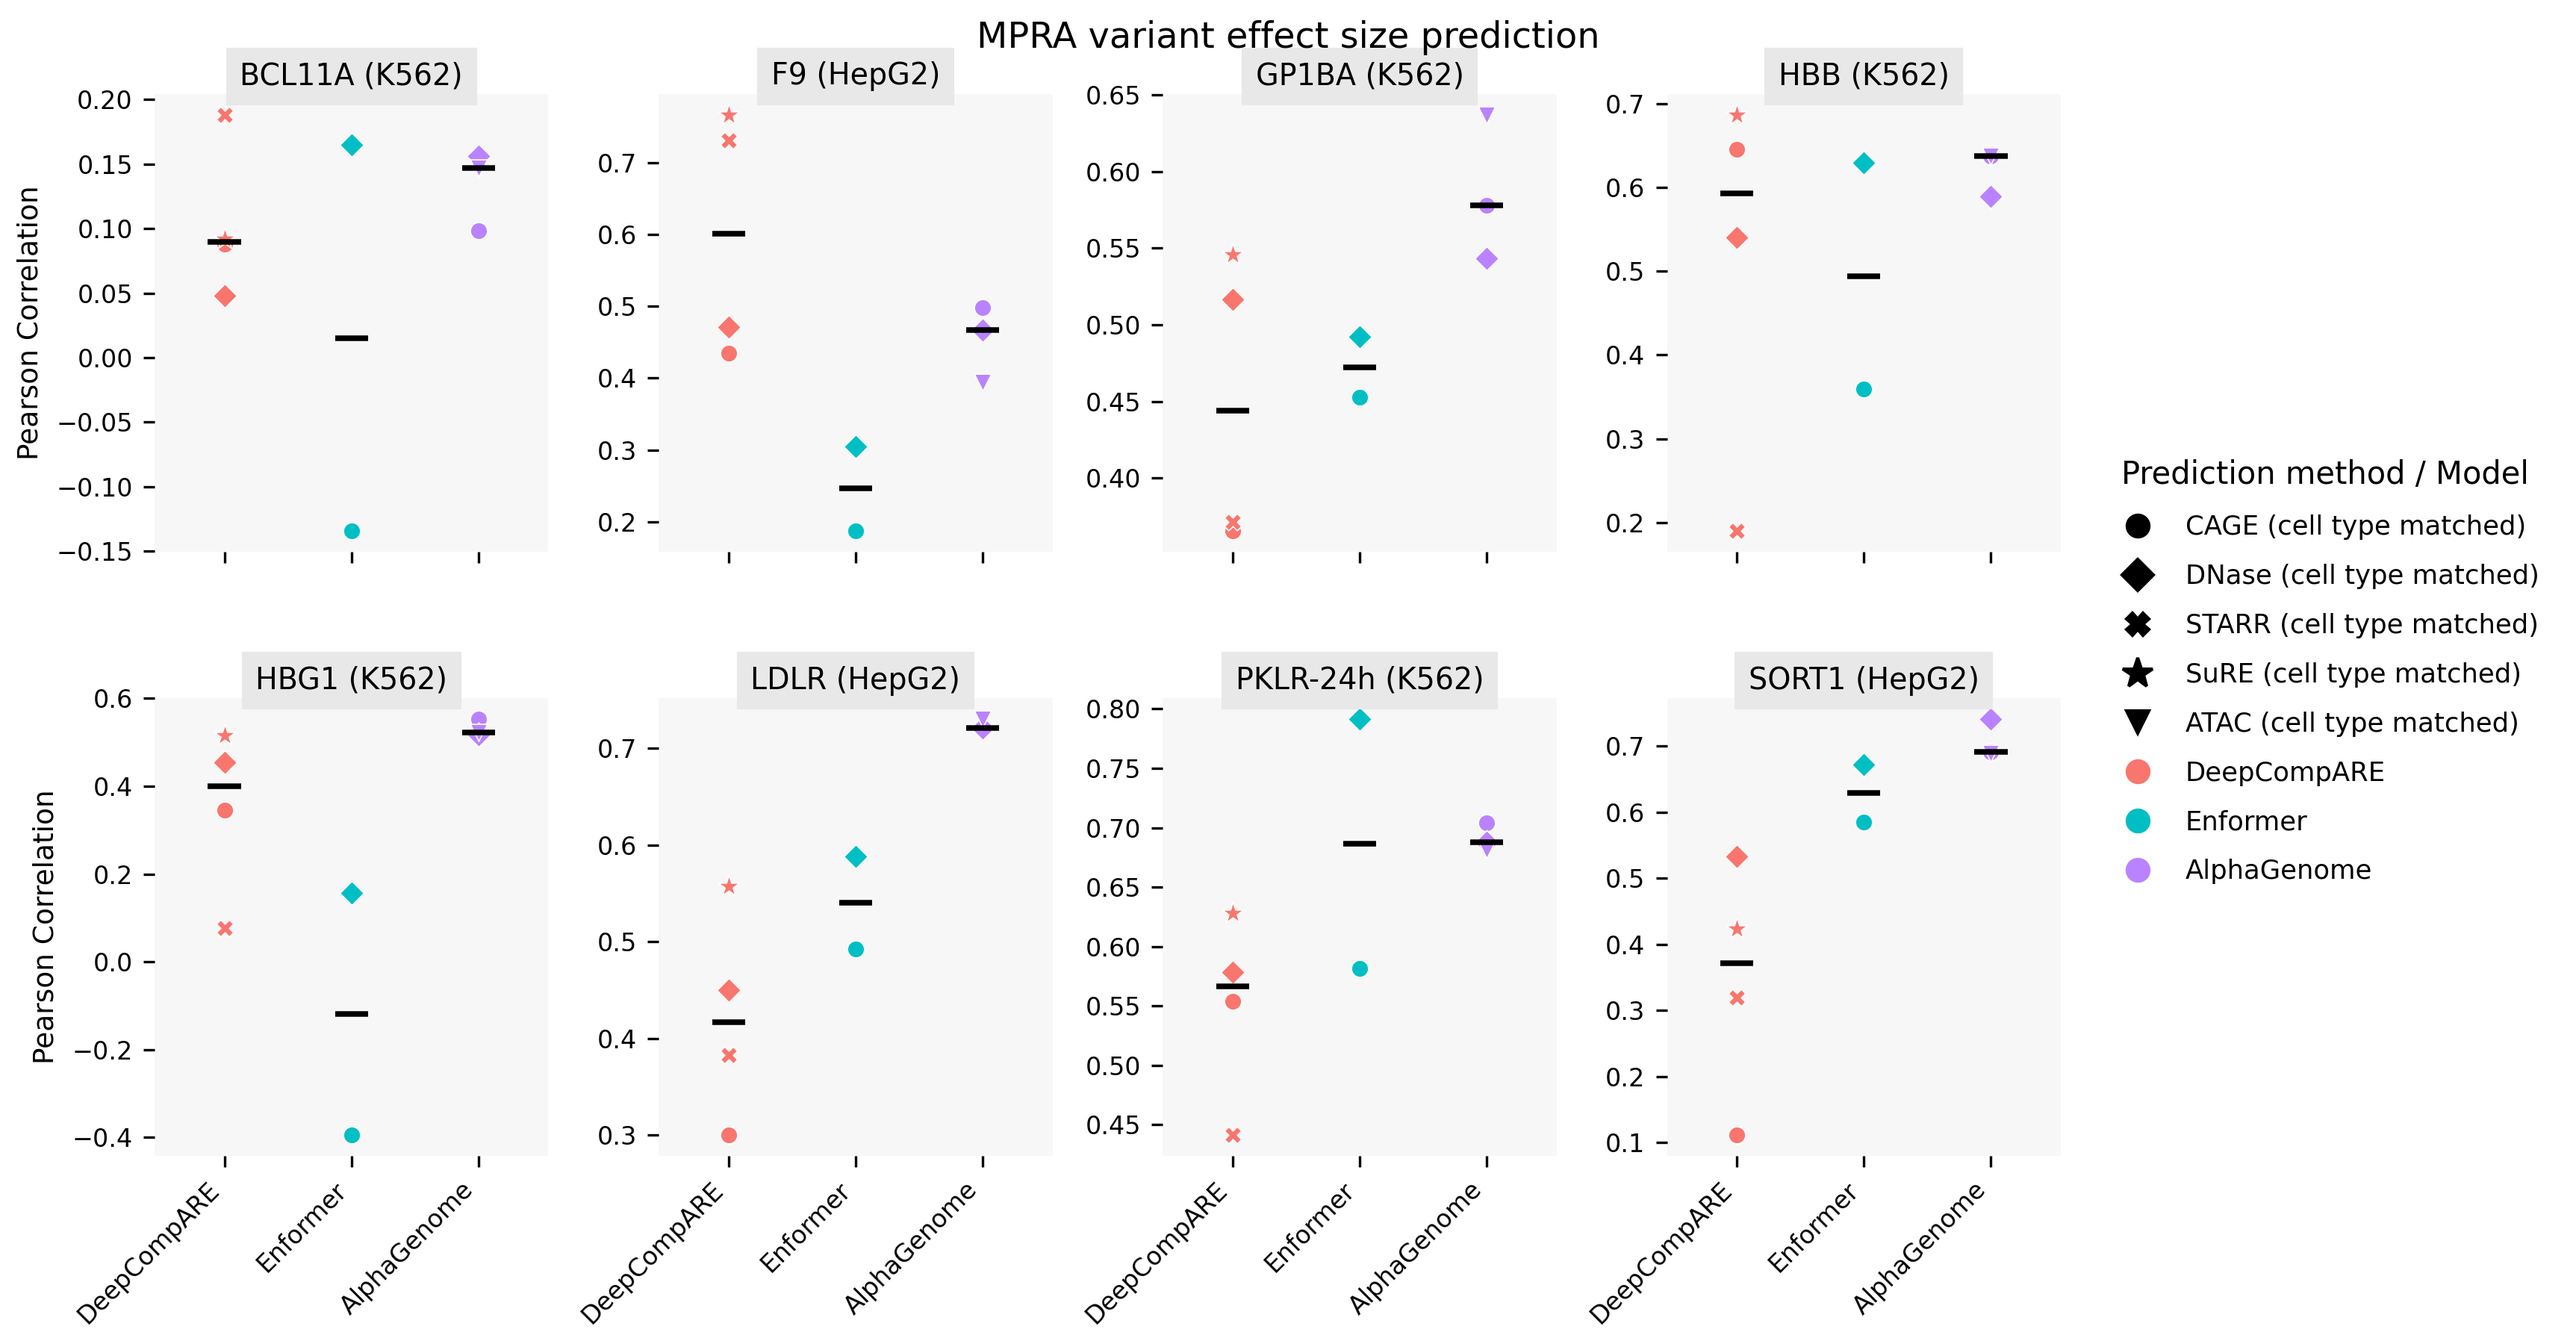
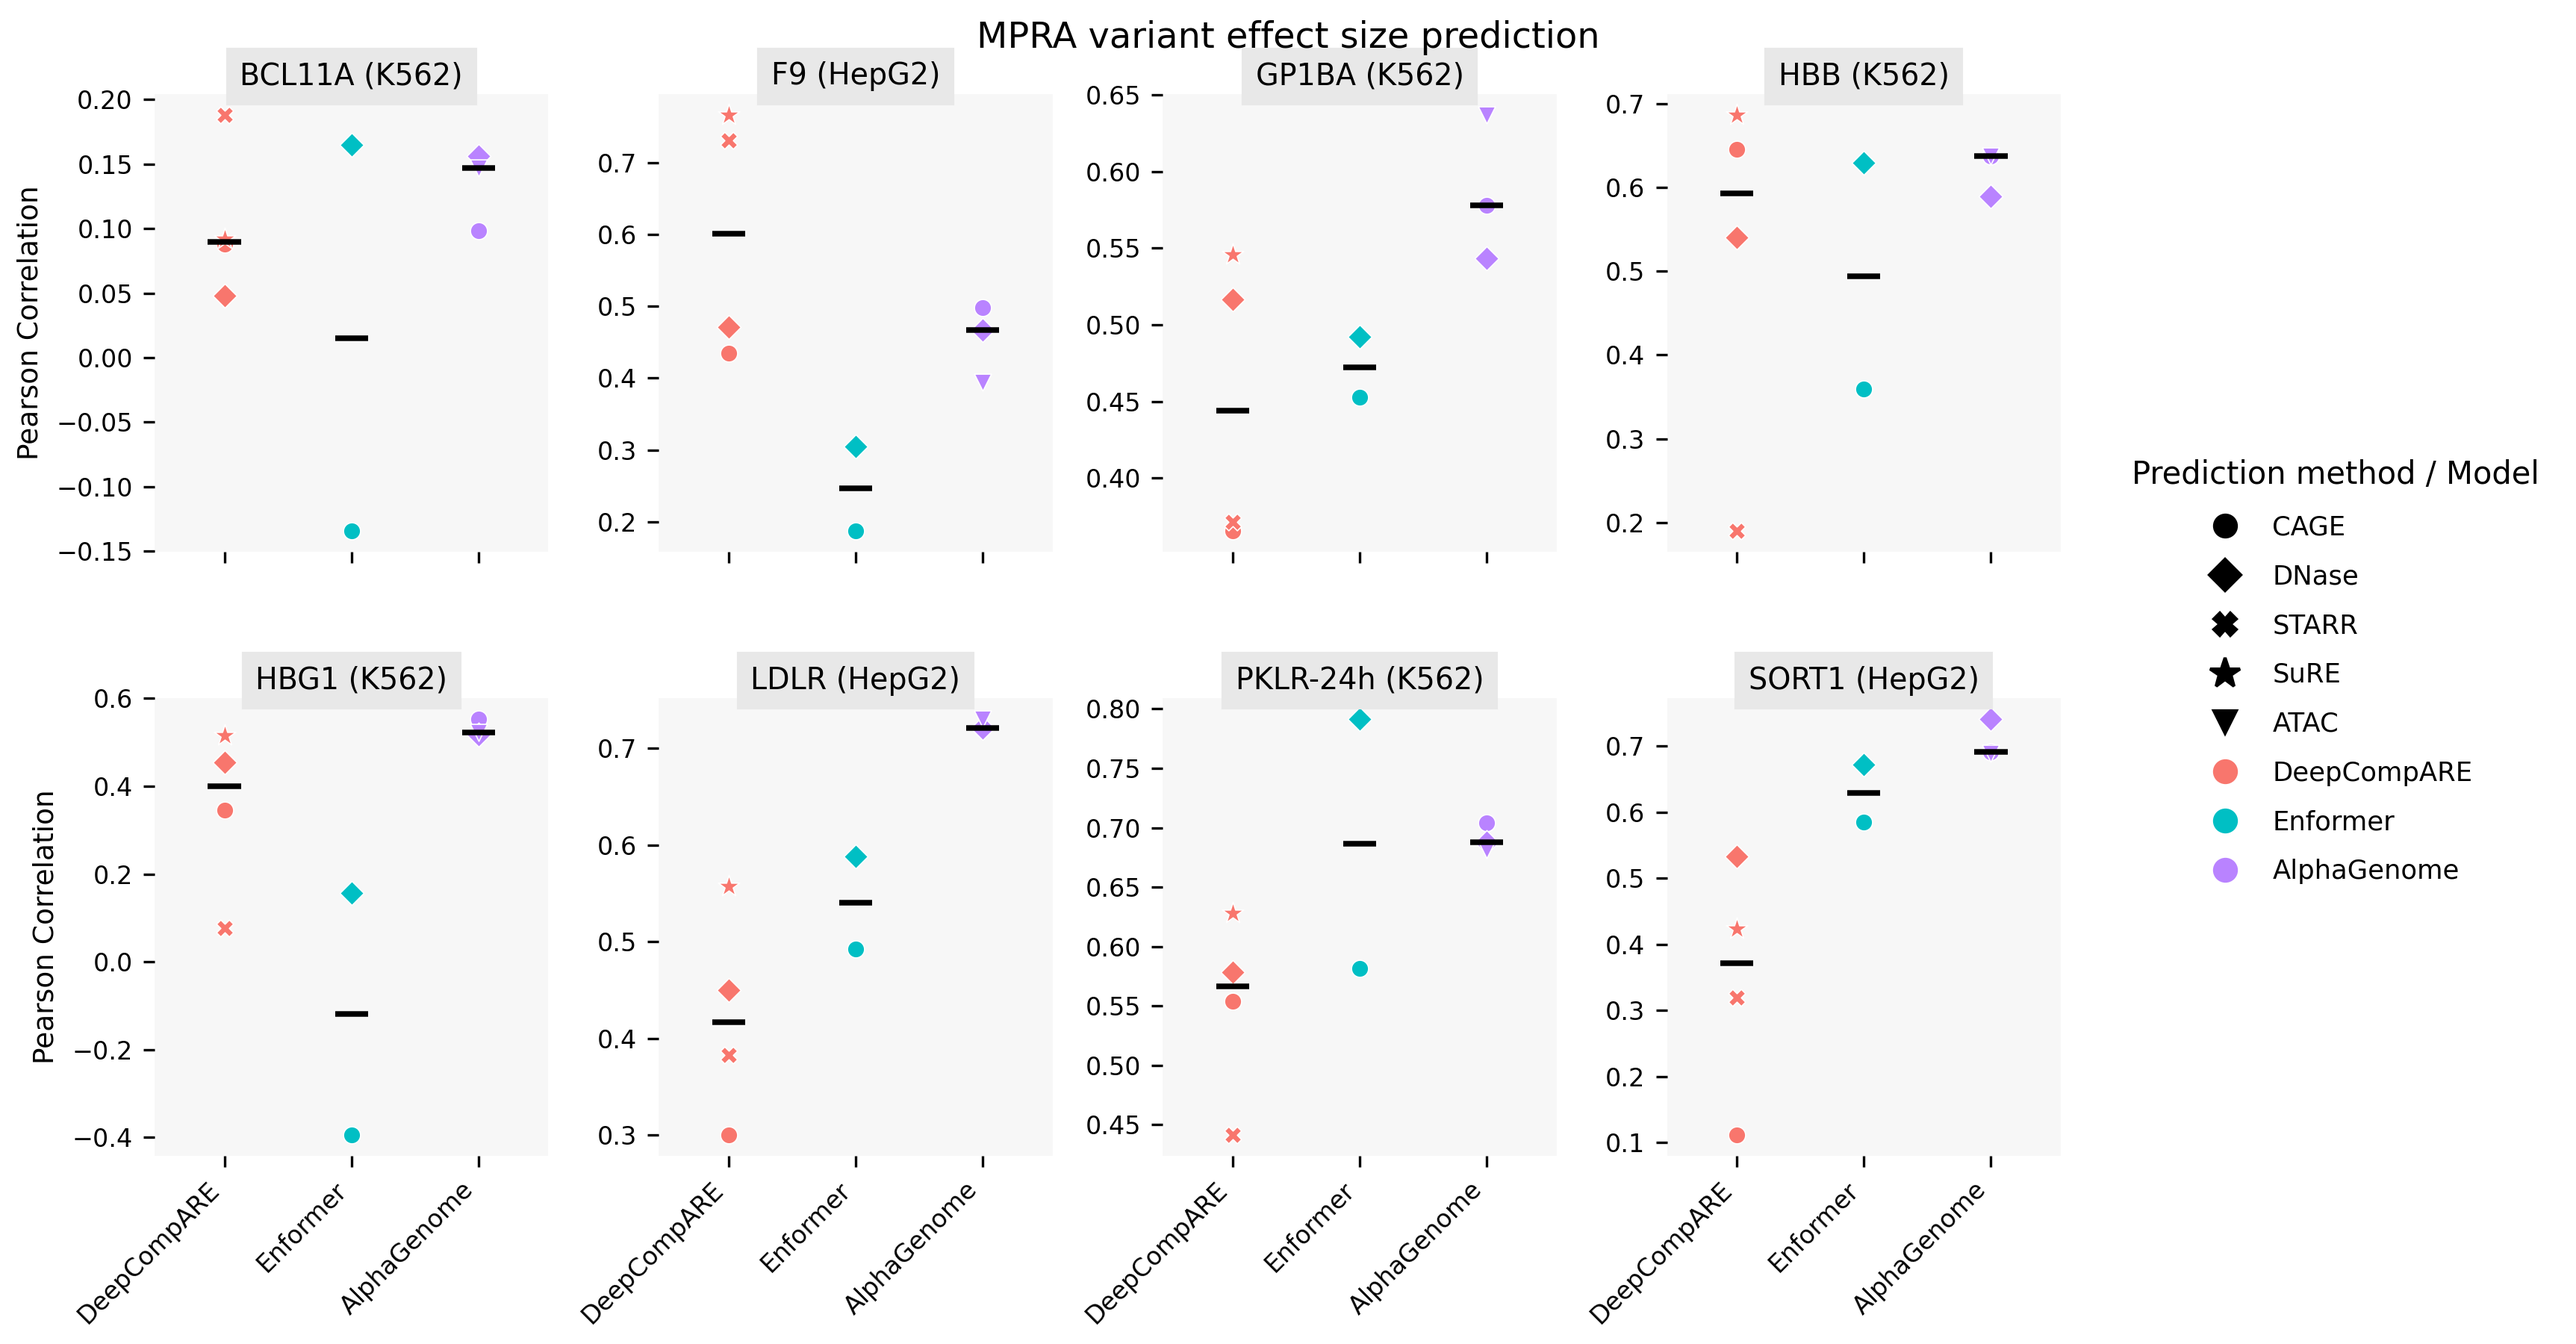
Figure legend: drop '(cell type matched)' suffix from assay labels

Changed region(s): [[0.8064, 0.3422, 0.9925, 0.6533]]

diff --git a/scripts/06_figure.py b/scripts/06_figure.py
@@ -32,9 +32,9 @@ MODEL_COLOR = {"DeepCompARE": "#F8766D", "Enformer": "#00BFC4", "AlphaGenome": "
 MODEL_ORDER = ["DeepCompARE", "Enformer", "AlphaGenome"]
 # shape = prediction method (reference legend; ATAC added for AlphaGenome)
 ASSAY_SHAPE = {"CAGE": "o", "DNASE": "D", "STARR": "X", "SURE": "*", "ATAC": "v"}
-ASSAY_LABEL = {"CAGE": "CAGE (cell type matched)", "DNASE": "DNase (cell type matched)",
-               "STARR": "STARR (cell type matched)", "SURE": "SuRE (cell type matched)",
-               "ATAC": "ATAC (cell type matched)"}
+ASSAY_LABEL = {"CAGE": "CAGE", "DNASE": "DNase",
+               "STARR": "STARR", "SURE": "SuRE",
+               "ATAC": "ATAC"}
 ASSAY_PER_MODEL = {"DeepCompARE": ["CAGE", "DNASE", "STARR", "SURE"],
                    "Enformer": ["CAGE", "DNASE"],
                    "AlphaGenome": ["CAGE", "DNASE", "ATAC"]}
